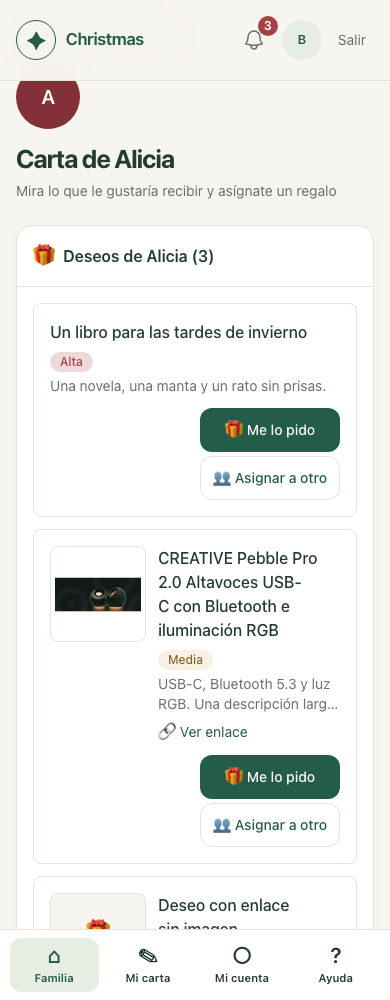
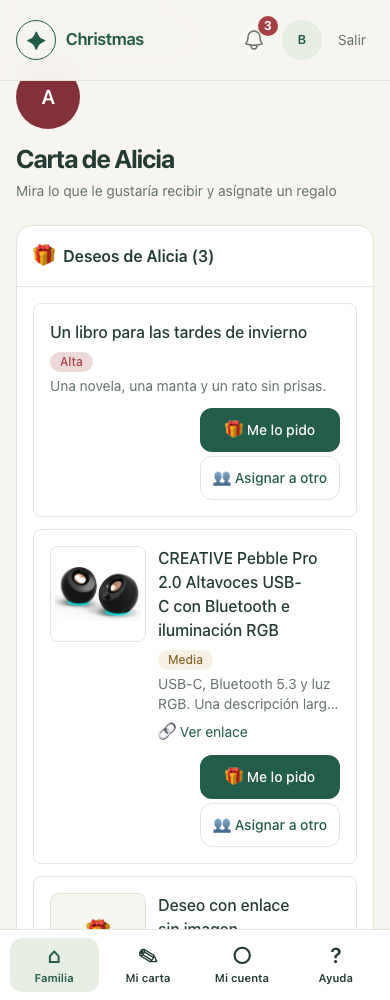
docs: verify the original Amazon link and final delivery

Changed region(s): [[0.1231, 0.558, 0.3692, 0.62]]

diff --git a/docs/product-images.md b/docs/product-images.md
@@ -47,9 +47,9 @@ La prueba inicial con la página oficial Creative Pebble Pro obtuvo un JPEG de
 y las cinco unitarias históricas también. Types y lint sobre la renovación
 con imágenes pasan; lint conserva tres avisos previos de imágenes de avatar/admin.
 
-Versión de producto validada: `4a2869b`. Resultado final: **13 unitarios, 4 DB,
+Versión de producto validada: `b07cf1d`. Resultado final: **13 unitarios, 4 DB,
 14 E2E, cero skips**, types, lint y build con exit 0. Lint mantiene tres avisos
-previos. La batería E2E completa tarda 42,9 segundos. Capturas de escritorio, móvil,
+previos. La batería E2E completa tarda 53,7 segundos. Capturas de escritorio, móvil,
 carta familiar, carga retenida y fallo abiertas e inspeccionadas. Informe completo:
 `artifacts/product-images-5830/validation-summary.json`; logs y JSON de las
 ejecuciones fallidas también se conservan.
@@ -60,7 +60,15 @@ redirecciones relativas y prueba que se conserva el origen. También elimina una
 carrera de la prueba que cerraba avisos con índices después de su caducidad.
 Los dos primeros resultados E2E (12/14 y 13/14) quedan registrados, sin ocultarlos.
 
-Validación y limpieza verificadas. Falta registrar URL de PR; no se ha publicado producción.
+PR [#1](https://github.com/VMRam95/christmas-planner/pull/1) abierta contra main.
+No se ha publicado producción. Una comprobación adicional del enlace corto de
+Amazon del deseo real detectó HTML mayor de 2 MiB. La revisión `b07cf1d` analiza
+solo el prefijo acotado y cierra la descarga, conservando el límite y el rechazo de
+imágenes grandes. La extracción del enlace real devuelve un JPEG de 53.717 bytes.
+La URL del deseo se consultó en una transacción de solo lectura; ningún dato remoto
+se modificó. La batería completa se repitió con ese mismo enlace: 14/14 E2E, cero skips,
+13 unitarios y 4 DB; types, lint y build exit 0. Las cinco capturas finales
+muestran esa imagen real de Amazon y se han abierto e inspeccionado.
 
 | Criterio | Consumidor / condiciones | Estado |
 | --- | --- | --- |
@@ -78,7 +86,7 @@ histórico por parecido. Puertos locales 9000, 56491/56492/56494/56496; configur
 privada del stack bajo `artifacts/product-images-5830/stack/`, ignorada por Git.
 Conserva volúmenes sintéticos y cierra contenedores por IDs y generación verificados.
 
-Medición local: redimensionado y comprobación de la tarjeta entre 30 y 56 ms;
+Medición local: redimensionado y comprobación de la tarjeta entre 29 y 70 ms;
 no representa INP ni métricas de campo. La caja del producto mantiene posición y
 tamaño antes/después del fallo. Emulación Chromium con tacto y teclado; sin móvil
 físico, teclado virtual real, ni certificación de lector de pantalla/accesibilidad.
@@ -101,3 +109,8 @@ Cachés propias comprobadas sin referencias activas y retiradas: node_modules
 1.182.728 KiB, aproximadamente 1,13 GiB. Worktree CAS conservado sin tocar su lock.
 El registro completo permanece en local-resources.json; no hay servicios ni
 reservas de esta tarea pendientes de cierre.
+
+La segunda generación, usada para la regresión con el enlace original de Amazon,
+también se cerró verificando sus nuevos IDs y journals. El recibo final, el resumen
+y las capturas corresponden a `b07cf1d`; no quedan pruebas de producto pendientes
+del agente. Revisión del usuario y merge/despliegue permanecen pendientes.

diff --git a/vault/memoria/product-images-5830.md b/vault/memoria/product-images-5830.md
@@ -2,7 +2,7 @@
 
 La renovación de producción seguía sin commit en el carril histórico. El usuario
 ordenó «incluye todo» el 17/11/2026. Se conserva en 9e08513; el original no se toca.
-Corrección de recuperación 69ad22f; imágenes 4a2869b. Rama cas/christmas-planner-2,
+Corrección de recuperación 69ad22f; imágenes 4a2869b y corrección de HTML grande b07cf1d. Rama cas/christmas-planner-2,
 base main. Sin autorización de merge o despliegue.
 
 La imagen se extrae del enlace para los deseos nuevos y existentes sin migrar datos.
@@ -19,4 +19,8 @@ Fuente canónica: [docs/product-images.md](../../docs/product-images.md).
 Pruebas y capturas: artifacts/product-images-5830/. Instrucciones: AGENTS.md.
 Limpieza verificada: dos procesos y seis contenedores propios cerrados; cachés
 retiradas, 1,13 GiB liberados. Datos sintéticos, configuración privada y worktree
-CAS conservados. Pendiente registrar URL de PR.
+CAS conservados. PR [#1](https://github.com/VMRam95/christmas-planner/pull/1) abierta contra main.
+Validación final b07cf1d con el enlace corto de Amazon del deseo real: 14/14 E2E,
+13 unitarios, 4 DB, types/lint/build exit 0. Foto real en capturas finales
+inspeccionadas. La segunda generación de recursos también está cerrada.
+Pendiente únicamente revisión del usuario y autorización de merge/despliegue.

diff --git a/vault/INDEX.md b/vault/INDEX.md
@@ -2,12 +2,12 @@
 
 Generado por `baul.py`; no editar a mano. «Refrescar el baúl» = `baul.py refresh`; «actualizar el baúl» = reconciliar las fuentes afectadas por el trabajo y después `baul.py update`.
 
-Último refresh: 2026-11-17T17:53:05+00:00 — resultado: completo
+Último refresh: 2026-11-17T18:29:16+00:00 — resultado: completo
 
 | Fuente | Adaptador | Obligatoria | Estado | Último éxito |
 |---|---|---|---|---|
-| [repos](repos) | git | sí | ok | 2026-11-17T17:53:04+00:00 |
-| [kanban](kanban) | cas-kanban | sí | ok | 2026-11-17T17:53:05+00:00 |
+| [repos](repos) | git | sí | ok | 2026-11-17T18:29:16+00:00 |
+| [kanban](kanban) | cas-kanban | sí | ok | 2026-11-17T18:29:16+00:00 |
 
 - Contexto propio del proyecto: [memoria/](memoria/)
 - Detalle por fuente: `_refresh/<fuente>.log`
